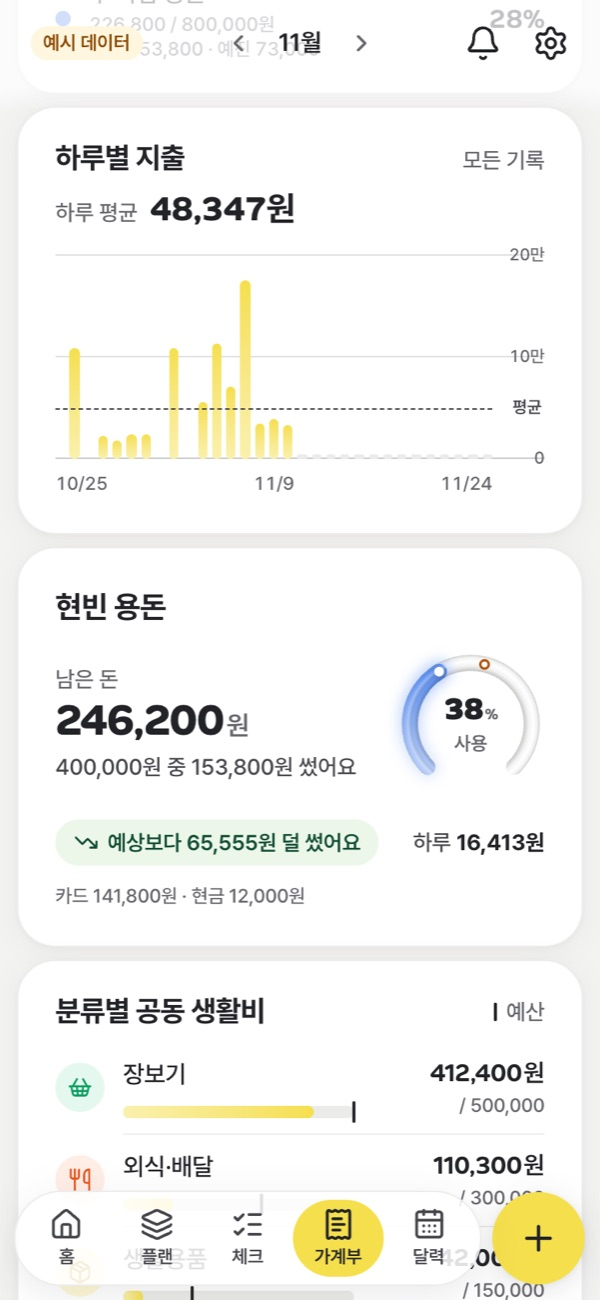
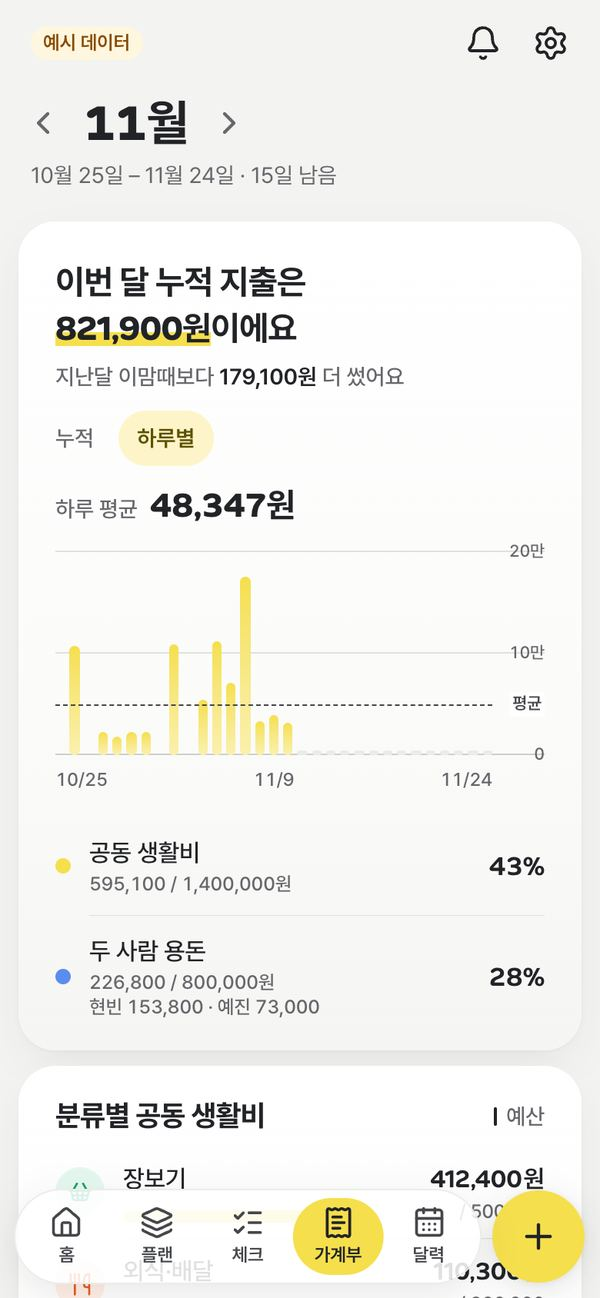
문서 화면 다시 찍기 — 부드러운 카드, 가계부·설정 나누기, 접기 반영
PR #70~#73 으로 카드 가장자리, 가계부(요약 + 모든 기록), 폰 설정(목록 → 상세), 체크·플랜 접기가 바뀌어
docs/screenshots 의 화면이 실제와 달랐다. 예시 데이터 정적 빌드에서 같은 크기(390px @2x → 600px JPEG)로
모두 다시 찍고, 새 화면(모든 기록, 설정 목록)을 사용 안내에 더했다.
지난주 돌아보기 카드는 일·월·화요일에만 떠서 브라우저 시계를 2026-11-10(화)로 고정해 찍었다.

diff --git a/docs/GUIDE.md b/docs/GUIDE.md
@@ -60,7 +60,7 @@ flowchart TB
 
 ## 4. 가계부 — 지출
 
-<img src="screenshots/ledger.jpg" width="240"> <img src="screenshots/ledger-daily.jpg" width="240"> <img src="screenshots/spending.jpg" width="240">
+<img src="screenshots/ledger.jpg" width="240"> <img src="screenshots/ledger-daily.jpg" width="240"> <img src="screenshots/ledger-all.jpg" width="240"> <img src="screenshots/spending.jpg" width="240">
 
 - [ ] 누적 그래프를 **누르고 끌기** → 그날 이번 달 · 지난달 누적
 - [ ] 오른쪽 아래 **＋** → 금액 · 어디에 · 분류 · 결제수단 → **기록하기**
@@ -92,7 +92,7 @@ flowchart TB
 
 ## 7. 설정 — 지갑
 
-<img src="screenshots/wallet.jpg" width="240"> <img src="screenshots/card.jpg" width="240">
+<img src="screenshots/settings.jpg" width="240"> <img src="screenshots/wallet.jpg" width="240"> <img src="screenshots/card.jpg" width="240">
 
 - [ ] 카드·통장이 실물처럼 겹친 **지갑**, 누르면 이번 달 카드값 · 옮겨 올 돈 · 최근 사용
 - [ ] 폰에서는 묶음 목록(두 사람 · 공동비용 나누기 · 한 달의 기준 · 지갑 · 분류와 예산 · 예시 데이터)에서 하나를 눌러 그 묶음만 고치고, **‹ 설정**으로 돌아오기. 데스크톱은 모든 묶음이 한 화면에
